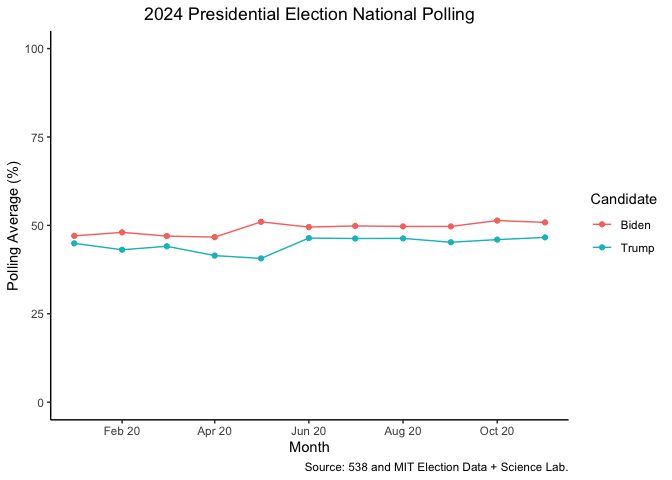
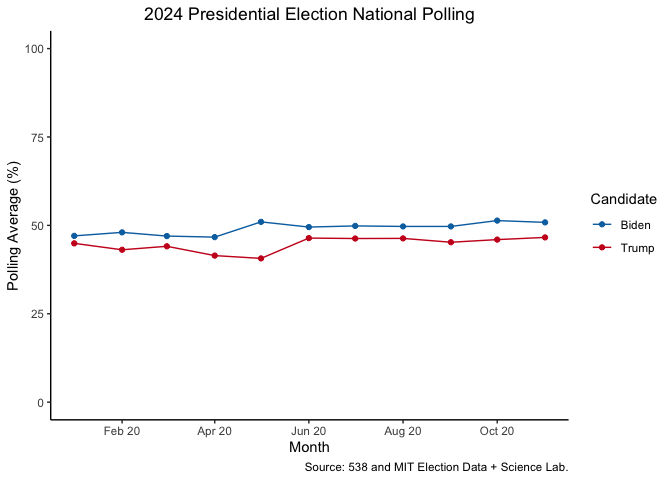
fix: more fixes to assignment 5

diff --git a/assignments/assignment5/assignment5.md b/assignments/assignment5/assignment5.md
@@ -42,6 +42,7 @@ polls |>
   geom_line() +
   scale_x_date(date_breaks = "2 months", date_labels = "%b %y") +
   scale_y_continuous(limits = c(0,100)) +
+  scale_color_manual(values = c("#0671B0", "#CA0120")) +
   labs(x = "Month",
        y = "Polling Average (%)",
        color = "Candidate",
@@ -63,20 +64,19 @@ polls |>
 ``` r
 polls |>
   filter(answer %in% c("Biden", "Trump") & numeric_grade >= 2 & !is.na(state)) |>
-  pivot_wider(names_from = answer, values_from = pct) |>
-  separate_wider_delim(end_date, "/", names = c("month", "day", "year")) |>
-  mutate(live = str_detect(methodology, "Live Phone")) |>
-  group_by(month, year, live) |>
-  summarize(Biden = mean(Biden, na.rm = T),
-            Trump = mean(Trump, na.rm = T)) |>
-  mutate(date = str_c(year, month, sep = "-"),
-         date = ym(date)) |>
-  pivot_longer(c(Biden, Trump), names_to = "candidate", values_to = "pct") |>
-  ggplot(aes(x = date, y = pct, color = candidate)) +
+  mutate(end_date = mdy(end_date),
+         month = month(end_date),
+         year = year(end_date),
+         live = str_detect(methodology, "Live Phone")) |>
+  group_by(live, answer, month, year) |>
+  summarize(pct = mean(pct, na.rm = T)) |>
+  mutate(date = make_date(year, month)) |>
+  ggplot(aes(x = date, y = pct, color = answer)) +
   geom_point() +
   geom_line() +
   scale_x_date(date_breaks = "2 months", date_labels = "%b %y") +
   scale_y_continuous(limits = c(0,100)) +
+  scale_color_manual(values = c("#0671B0", "#CA0120")) +
   labs(x = "Month",
        y = "Polling Average (%)",
        color = "Candidate",
@@ -107,6 +107,8 @@ polls |>
 Make a nicely-formatted graph showing the polling error in each state
 arranged from largest to smallest polling error. Comment on the graph.
 What does this graph tell you about state polling in the 2020 election?
+
+*Hint: You may need to use pivot_wider() to answer this question.*
 
 ``` r
 elec <- read_csv("2020-president.csv")
